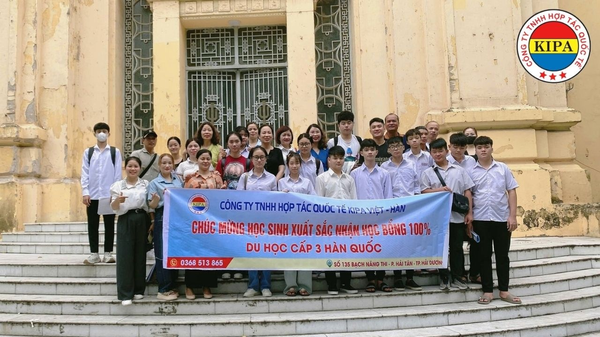
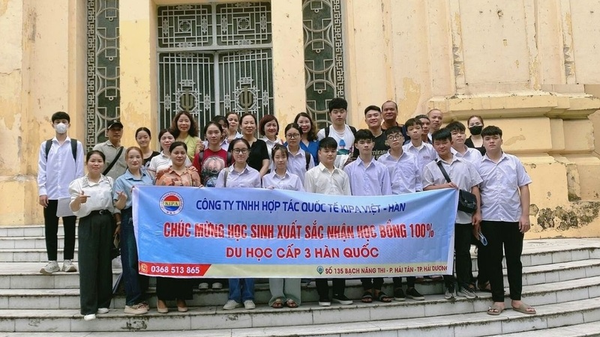
feat(du-hoc): cap nhat anh hero visual sang anh thuc te doan hoc vien seoul

diff --git a/du-hoc.html b/du-hoc.html
@@ -596,11 +596,11 @@
                     </div>
                 </div>
 
-                <!-- Right: Exact Demo Visual (Student, notebook, calligraphy, landmarks, badges) -->
+                <!-- Right: Hero Visual (Doan hoc vien KIPA thuc te) -->
                 <div class="lg:col-span-5 relative flex items-center justify-center">
-                    <img src="/assets/du-hoc/hero_visual.png" 
-                         alt="Du học cùng KIPA Việt Hàn - Hành trình học tập quốc tế bắt đầu từ lựa chọn hôm nay!" 
-                         class="w-full max-w-lg object-contain drop-shadow-lg rounded-2xl">
+                    <img src="/assets/cau-chuyen-hoc-vien/real-doan-hoc-vien-seoul.jpg" 
+                         alt="Đoàn học viên KIPA Việt Hàn đặt chân tới Seoul - Hành trình học tập quốc tế bắt đầu từ lựa chọn hôm nay!" 
+                         class="w-full max-w-lg object-cover drop-shadow-xl rounded-2xl shadow-xl border-2 border-white">
                 </div>
             </div>
         </div>

diff --git a/du-hoc/index.html b/du-hoc/index.html
@@ -596,11 +596,11 @@
                     </div>
                 </div>
 
-                <!-- Right: Exact Demo Visual (Student, notebook, calligraphy, landmarks, badges) -->
+                <!-- Right: Hero Visual (Doan hoc vien KIPA thuc te) -->
                 <div class="lg:col-span-5 relative flex items-center justify-center">
-                    <img src="/assets/du-hoc/hero_visual.png" 
-                         alt="Du học cùng KIPA Việt Hàn - Hành trình học tập quốc tế bắt đầu từ lựa chọn hôm nay!" 
-                         class="w-full max-w-lg object-contain drop-shadow-lg rounded-2xl">
+                    <img src="/assets/cau-chuyen-hoc-vien/real-doan-hoc-vien-seoul.jpg" 
+                         alt="Đoàn học viên KIPA Việt Hàn đặt chân tới Seoul - Hành trình học tập quốc tế bắt đầu từ lựa chọn hôm nay!" 
+                         class="w-full max-w-lg object-cover drop-shadow-xl rounded-2xl shadow-xl border-2 border-white">
                 </div>
             </div>
         </div>
